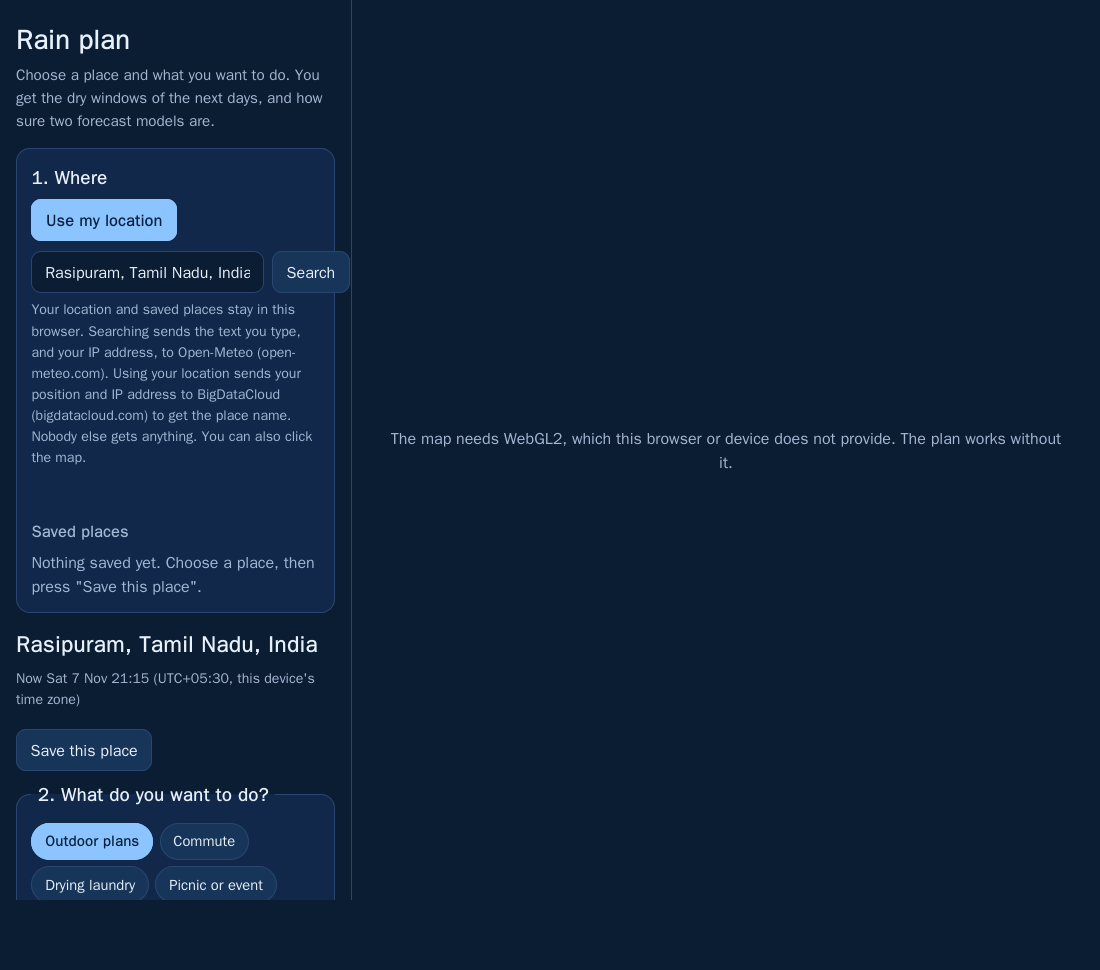
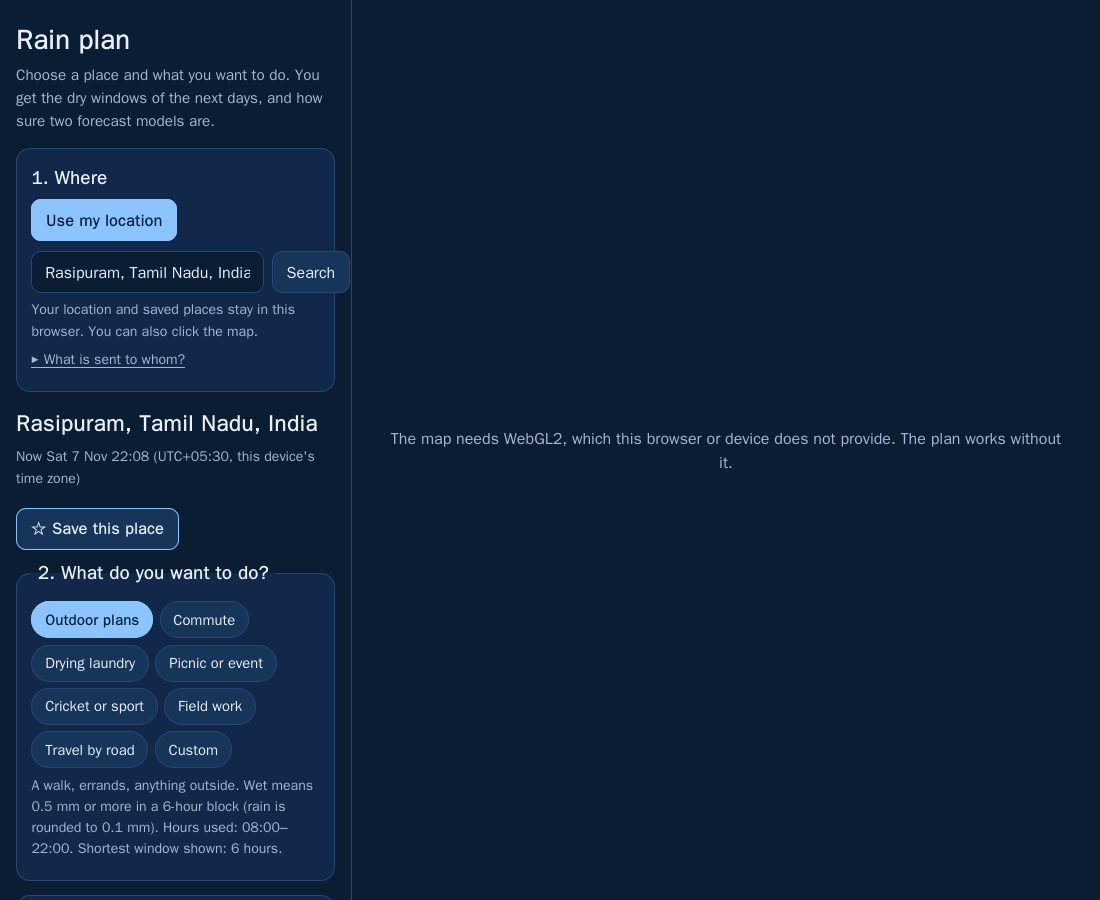
Make saved places findable: clearer Save button (star, Saved/press to remove), saved places above the search, short privacy text with the full text expandable, no blank reserved space
Node 71 passed; browser checks 15 of 15 in Chromium, Edge, Firefox and WebKit. Button visible without scrolling at 1100x700 (y=486 of 700, was about 745 of 900). User feedback and go recorded.

Claude-Session: https://claude.ai/code/session_01TFnA2TctcQwhqV8Sjabs29

Changed region(s): [[0.0, 0.0311, 0.34, 0.9644], [0.3709, 0.4356, 0.9582, 0.4978]]

diff --git a/frontend/index.html b/frontend/index.html
@@ -20,6 +20,10 @@
       <main>
         <section class="panel" aria-labelledby="where-h">
           <h2 id="where-h">1. Where</h2>
+          <div id="saved-box" hidden>
+            <h3>Saved places</h3>
+            <ul id="saved" class="saved-list"></ul>
+          </div>
           <div class="row">
             <button id="use-location" type="button" class="primary">Use my location</button>
             <form id="search-form" class="search" autocomplete="off">
@@ -28,11 +32,12 @@
               <button type="submit">Search</button>
             </form>
           </div>
-          <p class="note" id="privacy">Your location and saved places stay in this browser. Searching sends the text you type, and your IP address, to Open-Meteo (open-meteo.com). Using your location sends your position and IP address to BigDataCloud (bigdatacloud.com) to get the place name. Nobody else gets anything. You can also click the map.</p>
+          <p class="note" id="privacy">Your location and saved places stay in this browser. You can also click the map.</p>
+          <details class="note sent"><summary>What is sent to whom?</summary>
+            <p>Searching sends the text you type, and your IP address, to Open-Meteo (open-meteo.com). Using your location sends your position and IP address to BigDataCloud (bigdatacloud.com) to get the place name. Nobody else gets anything.</p>
+          </details>
           <p id="status" class="status" role="status" aria-live="polite"></p>
           <ul id="results" class="results" aria-label="Search results"></ul>
-          <h3>Saved places</h3>
-          <ul id="saved" class="saved-list"></ul>
         </section>
 
         <p id="welcome" class="welcome">Choose where you are, search for a place, or click the map, to see your plan.</p>
@@ -43,7 +48,7 @@
               <h2 id="title"></h2>
               <p id="meta" class="note"></p>
             </div>
-            <button id="save" type="button"></button>
+            <button id="save" class="save-button" type="button" aria-pressed="false"></button>
           </div>
 
           <fieldset class="panel">

diff --git a/frontend/src/app.js b/frontend/src/app.js
@@ -96,7 +96,9 @@ function draw(place, act, view) {
   ui.plan.hidden = false;
   ui.title.textContent = place.name;
   ui.meta.textContent = `Now ${dayLabel(dayKey(now, view.zone))} ${clock(now, view.zone)} (${offsetLabel(now, view.zone)}${place.zone ? '' : ", this device's time zone"})`;
-  ui.save.textContent = state.saved.some((p) => samePlace(p, place)) ? 'Remove from saved places' : 'Save this place';
+  const isSaved = state.saved.some((p) => samePlace(p, place));
+  ui.save.textContent = isSaved ? '★ Saved (press to remove)' : '☆ Save this place';
+  ui.save.setAttribute('aria-pressed', String(isSaved));
   ui.note.textContent = activityNote(act, act.wet_mm);
   ui.customBox.hidden = state.activityId !== 'custom';
   renderWindows(ui.windows, view, act);
@@ -133,6 +135,7 @@ async function render() {
 async function renderSavedList() {
   const act = currentActivity();
   const token = state.token;
+  ui.savedBox.hidden = state.saved.length === 0; // nothing saved: no empty box (the Save button under the place name is the way to add one)
   const row = (place, summary) => ({ place, summary, active: Boolean(state.place) && samePlace(place, state.place) });
   renderSaved(ui.saved, state.saved.map((p) => row(p, 'Loading…')), showSaved, forget);
   const items = await Promise.all(state.saved.map((place) => blocksFor(place)
@@ -252,7 +255,7 @@ async function chooseStart() {
 }
 
 function collect() {
-  for (const id of ['status', 'welcome', 'plan', 'title', 'meta', 'save', 'note', 'windows', 'days', 'totals', 'about', 'saved', 'results',
+  for (const id of ['status', 'welcome', 'plan', 'title', 'meta', 'save', 'note', 'windows', 'days', 'totals', 'about', 'saved', 'saved-box', 'results',
     'activities', 'custom-box', 'custom-wet', 'search-form', 'search-input', 'use-location', 'map', 'map-message', 'map-tools']) {
     ui[id.replace(/-(.)/g, (_, c) => c.toUpperCase())] = byId(id);
   }

diff --git a/frontend/src/style.css b/frontend/src/style.css
@@ -28,6 +28,7 @@ h4 { margin: 0 0 .25rem; font-size: 1rem; }
 .lead { color: var(--muted); margin: 0 0 1rem; font-size: .95rem; }
 .note { color: var(--muted); font-size: .88rem; margin: .4rem 0; }
 .status { min-height: 1.4em; margin: .4rem 0; color: #ffd48a; }
+.status:empty, .results:empty { display: none; } /* no reserved blank space in the Where box while there is nothing to say */
 .welcome { color: var(--muted); padding: .5rem 0; }
 .panel { background: var(--panel); border: 1px solid var(--line); border-radius: 14px; padding: .9rem; margin: 0 0 .9rem; min-width: 0; }
 fieldset.panel { margin-inline: 0; }
@@ -44,6 +45,12 @@ input[type="search"], select { background: #0b1d33; border: 1px solid var(--line
 :focus-visible { outline: 3px solid #ffd48a; outline-offset: 2px; }
 .place-head { display: flex; justify-content: space-between; gap: .8rem; align-items: flex-start; margin: .8rem 0 .6rem; flex-wrap: wrap; }
 .place-head h2 { font-size: 1.4rem; margin: 0; }
+.save-button { border-color: var(--accent); font-weight: 600; }
+.save-button[aria-pressed="true"] { background: var(--panel-2); color: var(--muted); }
+.sent summary { cursor: pointer; text-decoration: underline; }
+.sent p { margin: .4rem 0 0; }
+#saved-box h3 { margin: .2rem 0 .5rem; }
+#saved-box { margin-bottom: .8rem; }
 
 .results, .saved-list, .windows, .blocks { list-style: none; margin: 0; padding: 0; }
 .results { display: flex; flex-direction: column; gap: .35rem; margin-bottom: .5rem; }

diff --git a/docs/PROGRESS.md b/docs/PROGRESS.md
@@ -498,3 +498,13 @@ Verification of this pass: `docker compose -f docker/compose.yaml run --rm tests
 
 ### User feedback: saved places are not discoverable (2026-11-07 16:31 UTC)
 - The user: "ok for saved placed how u save ?? becasue there is not option for it at all lol". The button exists ("Save this place", `#save`, shown only once a place is chosen, under the place name; up to 5 places, stored in the browser, reopened from the "Saved places" list, removed with the x). Seen in `docs/evidence/step8-chromium-saved.png`. It sits below the long privacy paragraph and the "1. Where" box, so on a normal screen it is at or below the fold of the left panel. Verdict: a discoverability defect of my layout, not a missing feature. Proposed fix (user to decide when): a Save / star button next to the place name at the top of the plan, shorter privacy text, saved places as a short row above the search box; planned for the design pass (step 9.5) unless the user wants it now.
+
+### Saved places made findable (user request "do it now", done 2026-11-07 16:40 UTC)
+- A small step under PLAN-007 (pulled forward from the design pass 9.5; the user's go after the proposal at 16:31). Changes: `frontend/index.html`, `frontend/src/app.js` (289 lines), `frontend/src/style.css`, `frontend/tools/browser_checks.mjs` ('saved' scenario).
+  1. The button reads **"☆ Save this place"**, and **"★ Saved (press to remove)"** once saved (`aria-pressed` set), with an accent border.
+  2. The **saved places are shown at the top of the "1. Where" box, above the search**, and the box is hidden while nothing is saved (no empty box).
+  3. The long privacy paragraph is short ("Your location and saved places stay in this browser. You can also click the map."); the full text of what goes to Open-Meteo and BigDataCloud is in an expandable "What is sent to whom?" part of the same box (nothing removed, D32 and the privacy statement stay).
+  4. The blank space reserved for the status line and the empty result list is gone while they are empty.
+- **Result (measured in Edge, viewport 1100 x 700):** the button's top edge was at about y=745 of 900 in the old layout (screenshot `step8-chromium-saved.png`, below the fold of a smaller screen); now y=486 of 700 with a place chosen and nothing saved, y=632 after saving (the saved card is above). Screenshots: `docs/evidence/save-button-before-saving.png`, `save-button-after-saving.png`.
+- **Checks:** Node 71 passed; browser checks 15 of 15 in Chromium (Docker), Edge (real GPU), Firefox (Docker, map scenarios return early) and WebKit (Docker) at 16:39 UTC; the 'saved' scenario now asserts the new wording, `aria-pressed`, that the saved box shows once one place is saved and is hidden after removal. Not re-run: the Python tests (no Python or config file changed).
+- **Not done:** the wider design pass (step 9.5: typography, spacing, mobile widths) and a look by the user in their Firefox; the user's verdict on the new look is still to come.

diff --git a/docs/DECISIONS.md b/docs/DECISIONS.md
@@ -442,3 +442,6 @@ Gone since the earlier register: `scripts/spike_frame.py` (deleted at step 7), t
 - **D38 addendum (font list):** the stored base map needs the style's fourth font, `Noto Sans Devanagari Regular v1`, because labels of Indian places can carry Devanagari text; stored now (all 256 glyph ranges), lock rebuilt from the same pinned commit. The site's assets are 1029 files, 11.54 MB (the whole stored base map about 201 MB, the site about 265 MB; the host limit stays 1 GB). Decided by: AI (a defect fix inside the approved plan, same source, same checks, no new host). Bet "the three fonts are all the style uses" was **wrong** (E032 seen again); a test now keeps list, lock and style in step.
 - **D36 (the live layer):** now guarded by browser scenarios in Chromium, WebKit and Edge: on at a close zoom for IFS, AIFS and the agreement, off on the globe and when zoomed out, and it gives way to the pre-made picture when a tile fails. Drawing time is still the 21-65 ms measured in Edge at step 9.3c-3.
 - **Start-up order (new, small):** the plan page now ignores a choice of place made before the forecast list is loaded until it is loaded, then draws it (E033). Decided by: AI (bug fix; the user's own approach to "do not show errors to visitors", D9).
+
+### Saved places made findable (2026-11-07 16:40 UTC)
+- Decided by: **user** (feedback "there is not option for it at all", then "do it now" to the proposal), details by the **AI**. The Save button stays in the place header but is clearer (star, "Saved (press to remove)"), the saved places move above the search and the box hides when empty, and the privacy text is short with the full text in an expandable part. This is an early part of the design pass (PLAN-007 step 9.5), not a new plan. Bet to check: the user finds the Save button without help (their next look). Result: not known yet.
